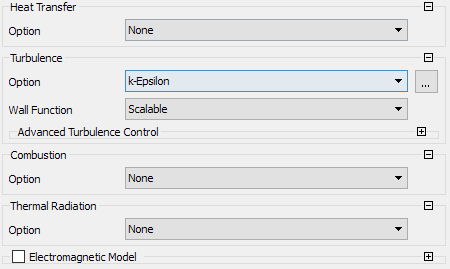
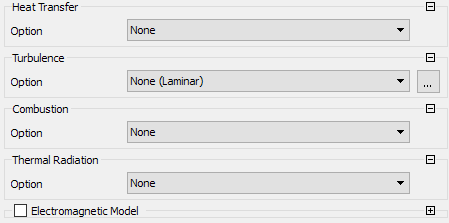
feedback adjustments

diff --git a/README.md b/README.md
@@ -84,11 +84,11 @@ Como mencionado anteriormente, a geometria a ser estudada representa a região d
 
 ## 2. Pré-Processamento
 
-### Domínio de Cálculo
+### Geometria e Domínio de Cálculo
+De acordo com o objetivo do projeto, é possível realizar uma simplificação da geometria do problema. Dessa forma, podemos desconsiderar a existência de chanfros, de ressaltos, de dimunuições no diâmetro da tubulação, de flanges, de parafusos, a relevância da espessura de tubos e de especificação do metal do tubo.Logo, a geometria utilizada será um cilindro perfeito.
 
-O domínio de cálculo é essencial para a obtenção de resultados condizentes com a realidade, pois é a representação da região em que a simulação será realizada. Desse modo, é imprescindível que tal domínio tenha uma boa precisão visando representar fielmente particularidades da geometria a ser estudada. No contexto de CFD, a malha representa o domínio de cálculo, isto é, o numero e o tamanho das subdivisões está diretamente relacionado a precisão do cálculo. Portanto, o refinamento da malha é uma etapa bastante relevante e demorada, no geral, avalia-se a precisão do cálculo por meio da análise de convergência da malha e dos indicadores de qualidade obtidos pelo software, como Skewness e Orthogonal Quality.
-
-Com isso,a malha utilizada foi construída iterativamente, isto é foram variados tipo, tamanho de elementos e ferramentas de controle de malha (Mesh Control). Logo, optou-se por trabalhar com uma malha estruturada por exigir menos memória computacional e devido a geometria ser bastante simples. A malha final conta com um Face Meshing de 1000 divisões aplicado na área lateral do cilindro e o tamanho do elemento foi definido como 6E-3 m.
+### Malha
+Por trata-se de uma análise inicial será utilizada a malha padrão do Ansys, gerada ao clicar em "Generate Mesh". Como a geometria do problema é simples e será um estudo de engenharia não é necessário alterar as demais configurações envolvidas. Logo, é esperado que a malha gerada pelo software seja do tipo estrutuda.
 
 <p align="center">
   <a id="fig-malha"></a>
@@ -96,46 +96,18 @@ Com isso,a malha utilizada foi construída iterativamente, isto é foram variado
 </p>
 <p align=center><b>Figura 5 - Malha de cálculo</b></p>
 
-### Escoamento Lamninar
-Na etapa de modelagem, adotou-se o escoamento laminar como hipótese de simplificação, porém, ao longo das iterações para pré-configurar o estudo paramétrico da tensão cisalhante e para obter uma malha adequada para o problema a ser estudado, alguns resultados distoaram do esperado. Os dois fatores que mais chamaram atenção serão ilustrados nas imagens abaixo.
+Além disso, após ter a malha gerada, é imprescindível nomear as faces circulares (base e topo do cilindro) como entrada e saída. Essa configuração será utilizada posteriormente para informar parâmetros como velocidade do escoamento e pressão relativa. Por padrão, o Ansys entende que as faces não nomeadas se tratam de paredes, tal fato condiz com esta análise, pois a face lateral equivale as paredes da tubulação. Então, a estrátegia utilizada será a de Volumes Finitos.
 
-<p align="center">
-  <a id="fig-pvelocity"></a>
-  <img width="350" height="200" src="fig/laminar_velocity.PNG">
-</p>
-<p align=center><b>Figura 6 - Perfil de velocidade</b></p>
-
-<p align="center">
-  <a id="fig-lvalues"></a>
-  <img width="330" height="100" src="fig/laminar_values.PNG">
-</p>
-<p align=center><b>Figura 7 - Malha de cálculo</b></p>
-
-Como mostrado na <a href="#fig-pvelocity">Fig. 6</a>, o perfil de velocidade não apresenta formato parabólico, conforme esperado em um contexto de escoamento laminar. Além disso, para reforçar tal conclusão, na <a href="#fig-lvalues">Fig. 7</a>, nota-se que o número de Reynolds  é característico de escoamento em transição para o regime turbulento. Portanto, para a vazão dada no problema é necessário utilizar modelos de turbulência para melhor avaliar o fenômeno na tubulação estudada.
 
 ### Setup
-
-Visando determinar, com base na teoria descrita em [[2]](https://books.google.com.br/books/about/Fluid_Mechanics.html?id=c8ATbn9ChB8C&redir_esc=y), os valores da velocidade do escoamento, do número de Reynolds e da queda de pressão foi desenvolvido um código em Python a partir da vazão volumétrica informada pelo problema e das dimensões do tubo. Além disso, o fator de atrito f teve o valor estimado em 0.042 utilizando o diagrama de Moody.
-
-<a id="tab-codigo"></a>
-| Variável | Valor Teórico|
-| -------- | -------------|
-|Velocidade do escoamento (m/s) | 0.0795|
-|Reynolds | 3565.8 |
-|Queda de pressão (Pa) | 3.31|  
-
-<p align=center><b>Tabela 1 - Resultados obtidos pelo código</b></p>
-
-Com esse código confirmou-se que para a vazão volumétrica informada, o escoamento encontra-se na região de transição, pois o Reynolds está entre 2300 e 4000. Logo, a hipótese de escoamento laminar previamente adotada foi refutada e um modelo de turbulência precisará ser definido. Portanto, com base no discutido em [[3]](https://www.researchgate.net/post/what_is_the_difference_between_k_epsilon_and_k_omega_models_in_CFD_and_how_does_it_affect_flow_in_a_shell_and_tube_heat_exchanger), optou-se por utilizar o modelo de turbulência k-epsilon, pois é o utilizado em algumas aplicações industriais em baixos Reynolds.
-
 ##### Input #1: Fluido de Trabalho
-Logo ao abrir o setup do CFX, o primeiro passo é configurar as opções no menu Default Domain, ou, em português, Domínio Padrão. Nele, o primeiro input necessário é o fluido de trabalho que, para essa simulação, será água, cujas propriedades já constam na biblioteca do Ansys. A <a href="#input_fluid">Fig. 8</a> ilustra essa configuração.
+Logo ao abrir o setup do CFX, o primeiro passo é configurar as opções no menu Default Domain, ou, em português, Domínio Padrão. Nele, o primeiro input necessário é o fluido de trabalho que, para essa simulação, será água, cujas propriedades já constam na biblioteca do Ansys. A <a href="#input_fluid">Fig. 6</a> ilustra essa configuração.
 
 <p align="center">
   <a id="input_fluid"></a>
   <img width="310" height="170" src="fig/input_fluid.png">
 </p>
-<p align=center><b>Figura 8 - Configuração do fluido</b></p>
+<p align=center><b>Figura 6 - Configuração do fluido</b></p>
 
 ##### Input #2: Modelos do Domínio
 Após o primeiro input, deve-se configurar a pressão de referência, 1 atm, e desativar o modelo de flutuabilidade, pois a simulação não considerará os efeitos da gravidade no escoamento. As demais opções serão mantidas conforme o padrão do CFX-Pré.
@@ -143,19 +115,19 @@ Após o primeiro input, deve-se configurar a pressão de referência, 1 atm, e d
   <a id="input_domains"></a>
   <img width="310" height="170" src="fig/input_domains.png">
 </p>
-<p align=center><b>Figura 9 - Configuração de propriedades do domínio</b></p>
+<p align=center><b>Figura 7 - Configuração de propriedades do domínio</b></p>
 
 ##### Input #3: Modelos do Fluido
-Está seção é considerada uma das mais importantes para obter-se uma simulação condizente com a realidade física esperada. Tamanha relevância está diretamente associada as hipóteses de simplificação adotadas anteriormente. Como mostrado na <a href="#input_fluid_models">Fig. 10</a>, a temperatura será mantida constante em 25 °C e o modelo k-epsilon será mantido em suas configurações padrão.
+Está seção é considerada uma das mais importantes para obter-se uma simulação condizente com a realidade física esperada. Tamanha relevância está diretamente associada as hipóteses de simplificação adotadas anteriormente. Como mostrado na <a href="#input_fluid_models">Fig. 8</a>, a temperatura será mantida constante em 25 °C e o modelo k-epsilon será mantido em suas configurações padrão.
 
 <p align="center">
   <a id="input_fluid_models"></a>
   <img width="310" height="170" src="fig/input_fluid_models.png">
 </p>
-<p align=center><b>Figura 10 - Configuração de propriedades do escoamento</b></p>
+<p align=center><b>Figura 8 - Configuração de propriedades do escoamento</b></p>
 
 ##### Input #4: Velocidade do Escoamento
-O próximo passo necessário é configurar a velocidade do escoamento no software. Logo, para determiná-la deve-se utilizar a equação da vazão volumétrica tendo em vista o valor da vazão volumétrica na saída do tubo descrita pelo problema.
+O próximo passo necessário é configurar a velocidade do escoamento na região da entrada. Logo, para determiná-la deve-se utilizar a equação da vazão volumétrica tendo em vista o valor da vazão volumétrica na saída do tubo descrita pelo problema.
 
 <p align="center">
   <a id="eq-velocity"></a>
@@ -163,39 +135,31 @@ O próximo passo necessário é configurar a velocidade do escoamento no softwar
 </p>
 <p align=center><b>Equação 1 - Velocidade do escoamento</b></p>
 
-Então, da <a href="#eq-velocity">Eq. 1</a>, a velocidade usada, apresentada na  <a href="#tab-codigo">Tabela 1</a>,para simulação será de 0.0795 m/s. Tendo em mente a necessidade do estudo paramétrico da Tensão Cisalhante na parede do tubo, essa velocidade foi definida como um parâmetro de entrada, com valor inicial mencionado acima, denominado "flowVel", conforme mostrado pela <a href="#input_fluid_models">Fig. 11</a>.
+Então, da <a href="#eq-velocity">Eq. 1</a>, a velocidade usada para simulação será de 0.0795 m/s. Tendo em mente a necessidade do estudo paramétrico da Tensão Cisalhante na parede do tubo, essa velocidade foi definida como um parâmetro de entrada, com valor inicial mencionado acima, denominado "flowVel", conforme mostrado pela <a href="#input_fluid_models">Fig. 9</a>.
 
 <p align="center">
   <a id="input_fluid_models"></a>
   <img width="330" height="135" src="fig/input_speed.png">
 </p>
-<p align=center><b>Figura 11 - Velocidade do escoamento</b></p>
+<p align=center><b>Figura 9 - Velocidade do escoamento</b></p>
 
 #### Input #5: Pressão na saída
-Por fim, dentro do setup do Ansys CFX, é possível configurar a pressão na sáida do tubo relativa a pressão na entrada de forma a facilitar o cálculo da perda de carga. Portanto, ao atribuir o valor de 0 Pa o valor calculado pelo software, naquele local, já será a queda de pressão na tubulação.
+Por fim, dentro do setup do Ansys CFX, é possível configurar a pressão na sáida do tubo relativa a pressão na entrada de forma a facilitar o cálculo da perda de carga. Portanto, ao atribuir o valor de 0 Pa o valor calculado pelo software, na entrada da tubulação, já será a queda de pressão.
 
 <p align="center">
   <a id="input_fluid_models"></a>
   <img width="330" height="135" src="fig/input_outlet_pressure.png">
 </p>
-<p align=center><b>Figura 12 - Pressão relativa na saída</b></p>
+<p align=center><b>Figura 10 - Pressão relativa na saída</b></p>
 
-#### Input #6: Residual Target
-Após o primeiro teste com o setup descrito acima, a queda de pressão estava relativamente distante do valor descrito na <a href="#tab-codigo">Tabela 1</a>, então optou-se por conduzir um estudo paramétrico do residual target a fim de avaliar a escolha feita na modelagem do problema.
-
-<p align="center">
-  <a id="fig-lvalues"></a>
-  <img width="330" height="100" src="fig/parametric_error.PNG">
-</p>
-<p align=center><b>Figura 13 - Estudo paramétrico do residual target</b></p>
-
-Logo, é notório que a melhor escolha para tal input é de 10^-6.
 
 ### Capacidade Computacional
-O poder de processamento é algo preponderante para os prazos de estudo numérico computacional de dinâmica dos fluidos, portanto, nesse contexto, em grandes projetos é comum usar-se clusters, comumente conhecidos como supercomputadores. No entanto, para esse projeto não se dispõe de tamanha capacidade computacional, a configuração do computador utilizado está descrita na tabela abaixo.
+O poder de processamento é algo preponderante para os prazos de estudo numérico computacional de dinâmica dos fluidos, portanto, nesse contexto, em grandes projetos é comum usar-se clusters, comumente conhecidos como supercomputadores. No entanto, para esse projeto não se dispõe de tamanha capacidade computacional, a configuração do computador utilizado está descrita na tabela abaixo. 
 
 | Item | Especificação |
 | ---- | ------------- |
 | Processador | Intel® Core™ i5-8250U 1.6 GHz |
 | RAM | 8GB DDR4 2133 MHz |
 | Placa de Vídeo | GeForce MX 150 |
+
+Por fim, está previsto o prazo de 1 semana para a realização e avaliação das simulações feitas na etapa de processamento.
